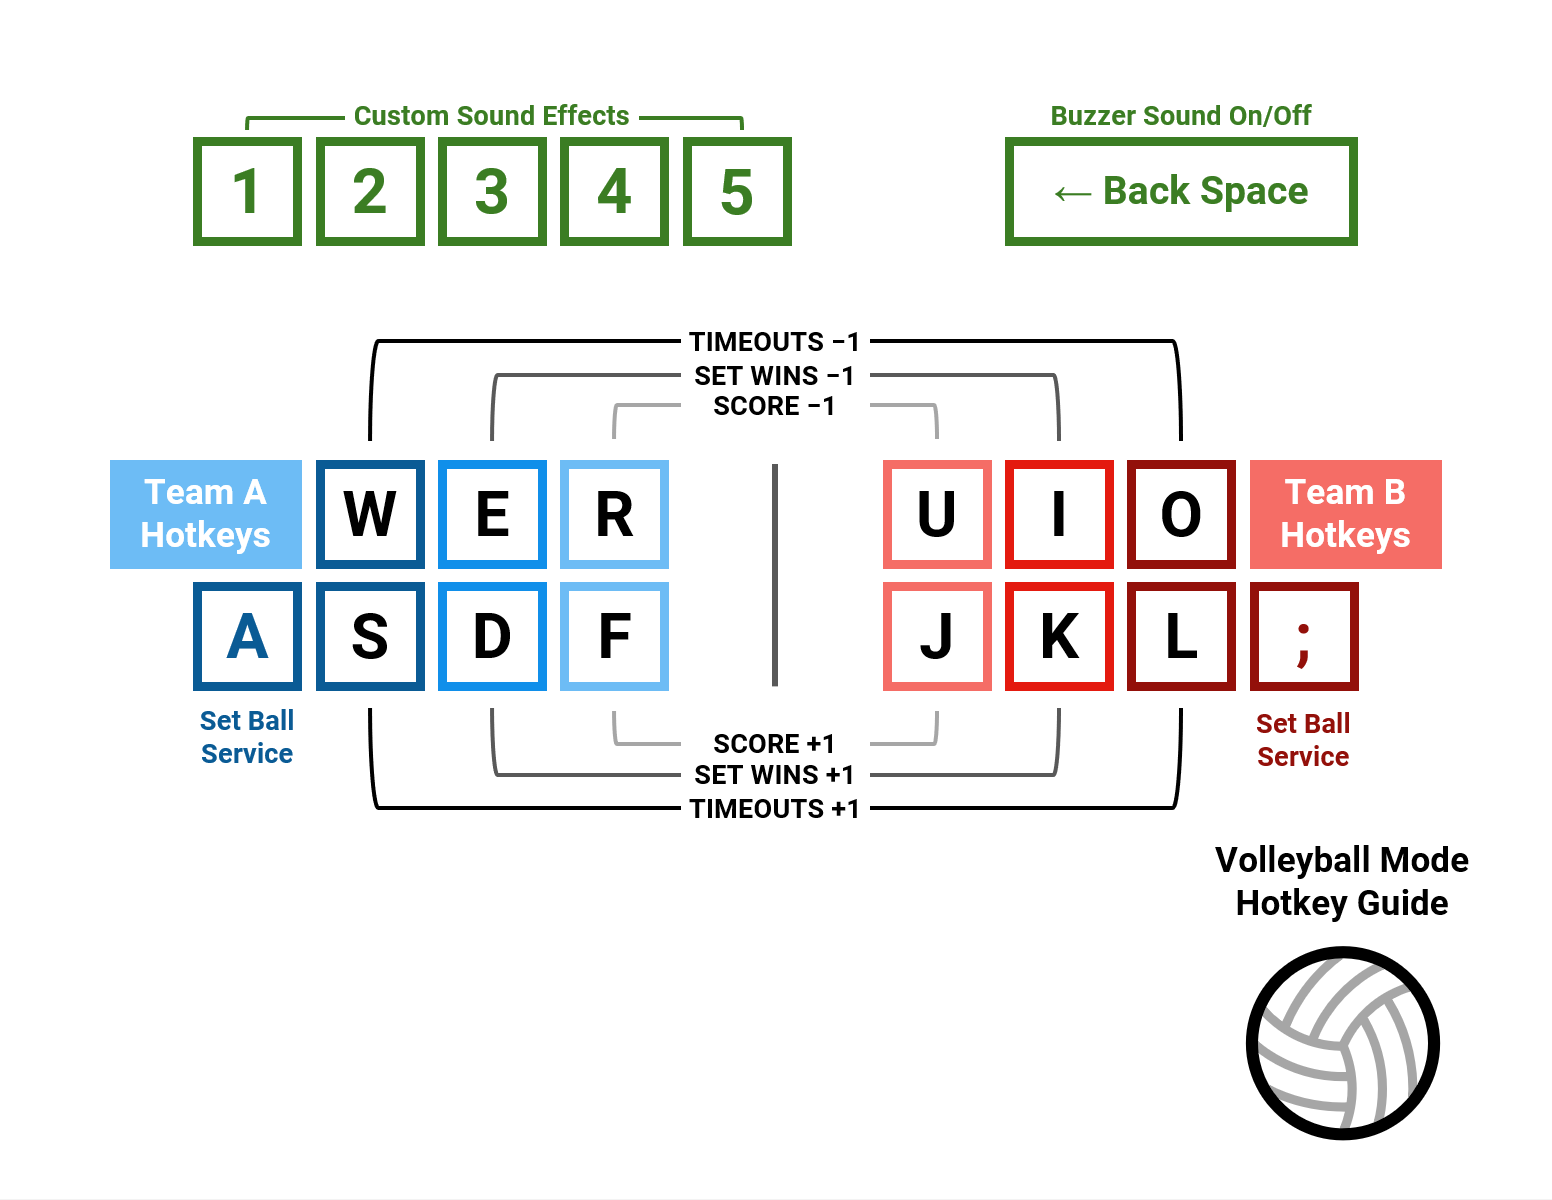
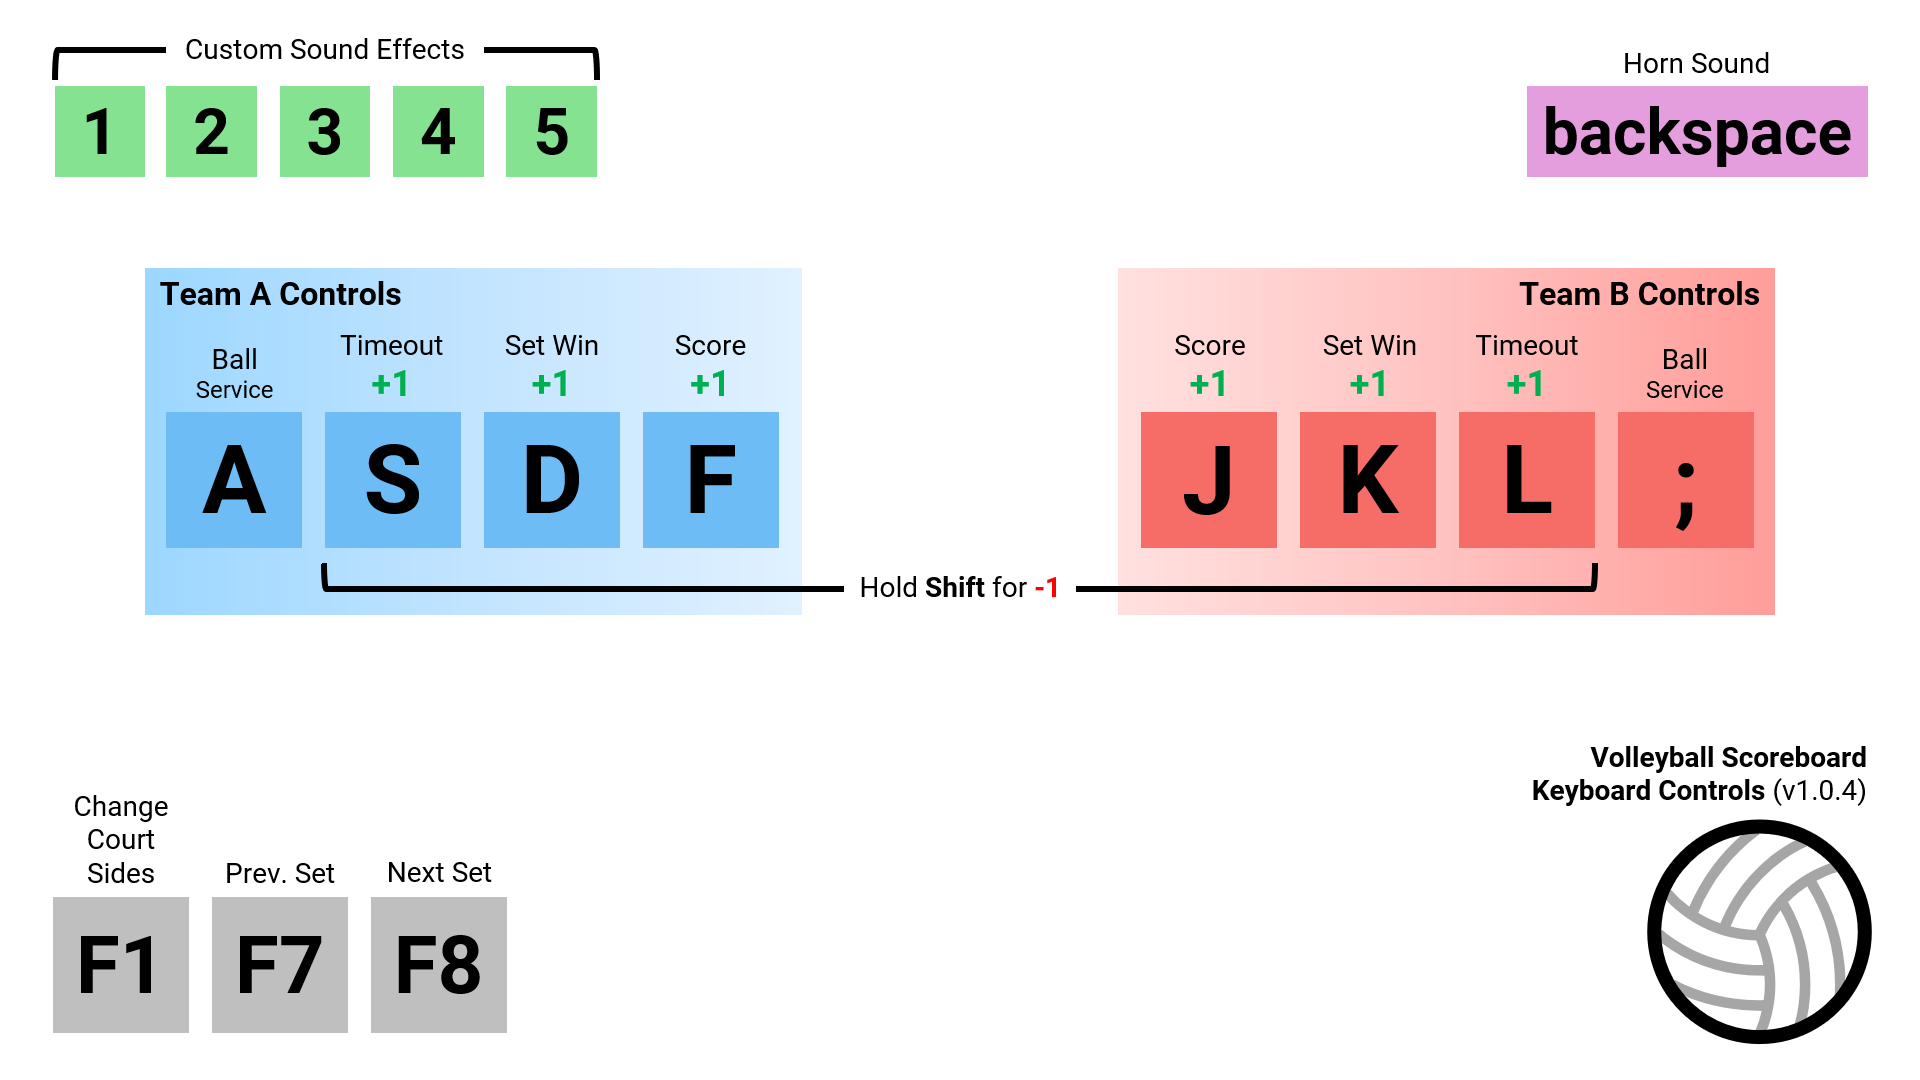
updated Mini Timer reset, and new hotkeys
Changes from 1.0.3:
- Major overhaul in Keyboard operation mode
    - Keybinds for score and other counters now use Shift in decreasing values instead of separate keybinds
    - Also fixed the issue regarding keybinds not working if Caps Lock is on
    - Added keybinds for adjustments of Period/Set and Timers (see new hotkey guide)
- Resetting the mini timer (Shot Clock) now also stops that mini timer

diff --git a/script.js b/script.js
@@ -219,6 +219,8 @@ function setMiniTimer(timerType) {
 			break;
 	}
 	miniTimer[1] = 0;
+	if(isMiniTimerRunning)
+		changeMiniTimerState();
 	document.getElementById("sbMiniText").innerHTML = isTimeout? "TIMEOUT":isBasketball? "SHOT CLOCK":"TO SERVE";
 	updateMiniTimerDisplay();
 	updateAllTimerButton();
@@ -566,6 +568,27 @@ function changeBallPossession(teamNum) {
 	}
 }
 
+function adjustTimer(adjustDsec) {
+	let rawDsec = timer[0]*600 + timer[1]*10 + timer[2];
+	rawDsec = rawDsec+adjustDsec;
+	if(rawDsec > 59999) rawDsec = 59999;
+	if(rawDsec <= 1) rawDsec = 1;
+	timer[0] = Math.floor(rawDsec/600);
+	timer[1] = Math.floor(rawDsec/10)%60;
+	timer[2] = rawDsec%10;
+	updateTimerDisplay();
+}
+
+function adjustMiniTimer(adjustDsec) {
+	let rawDsec = miniTimer[0]*10 + miniTimer[1];
+	rawDsec = rawDsec+adjustDsec;
+	if(rawDsec > 999) rawDsec = 999;
+	if(rawDsec <= 1) rawDsec = 1;
+	miniTimer[0] = Math.floor(rawDsec/10);
+	miniTimer[1] = rawDsec%10;
+	updateMiniTimerDisplay();
+}
+
 function activateTimerThread() {
 	let timerRun, miniTimerRun, timerDelta, lastTimerDelta = 0, miniTimerDelta, lastMiniTimerDelta = 0;
 	
@@ -640,51 +663,115 @@ function countdownMiniTimer() {
 
 function toggleHotkeyActivation() {
 	isHotkeyMode = document.getElementById("hotkeyActivation").checked;
-	checkbox.onmousedown = function(event) { event.preventDefault(); }
+	// checkbox.onmousedown = function(event) { event.preventDefault(); }
+	document.getElementById("hotkeyActivation").addEventListener("click", function(event){
+		event.preventDefault()
+	});
 }
 
 function setHotkeyFunctions() {
 	window.addEventListener('keydown', function(event) {
             if(isHotkeyMode) {
-			// TEAM A HOTKEYS
-                if(event.key == "a") document.getElementById("teamAposs").click();
-                if(event.key == "w") document.getElementById("lowerAminus1").click();
-                if(event.key == "s") document.getElementById("lowerAplus1").click();
-                if(event.key == "e") document.getElementById("upperAminus1").click();
-                if(event.key == "d") document.getElementById("upperAplus1").click();
-                if(event.key == "r") isBasketball? document.getElementById("scoreAfuncA").click():document.getElementById("scoreAfuncB").click();
-                if(event.key == "f") isBasketball? document.getElementById("scoreAfuncB").click():document.getElementById("scoreAfuncC").click();
-			
-                // TEAM B HOTKEYS
-                if(event.key == ";") document.getElementById("teamBposs").click();
-                if(event.key == "o") document.getElementById("lowerBminus1").click();
-                if(event.key == "l") document.getElementById("lowerBplus1").click();
-                if(event.key == "i") document.getElementById("upperBminus1").click();
-                if(event.key == "k") document.getElementById("upperBplus1").click();
-                if(event.key == "u") isBasketball? document.getElementById("scoreBfuncA").click():document. getElementById("scoreBfuncB").click();
-                if(event.key == "j") isBasketball? document.getElementById("scoreBfuncB").click():document.getElementById("scoreBfuncC").click();
-			
+				// SCORE AND COUNTERS
+				if(event.key.toLowerCase() == "s") {
+					if(event.shiftKey)
+						document.getElementById("lowerAminus1").click();
+					else
+						document.getElementById("lowerAplus1").click();
+				}
+
+				if(event.key.toLowerCase() == "d") {
+					if(event.shiftKey)
+						document.getElementById("upperAminus1").click();
+					else
+						document.getElementById("upperAplus1").click();
+				}
+
+				if(event.key.toLowerCase() == "f") {
+					if(event.shiftKey)
+						isBasketball? document.getElementById("scoreAfuncA").click():document.getElementById("scoreAfuncB").click();
+					else
+						isBasketball? document.getElementById("scoreAfuncB").click():document.getElementById("scoreAfuncC").click();
+				}
+
+				if(event.key.toLowerCase() == "l") {
+					if(event.shiftKey)
+						document.getElementById("lowerBminus1").click();
+					else
+						document.getElementById("lowerBplus1").click();
+				}
+
+				if(event.key.toLowerCase() == "k") {
+					if(event.shiftKey)
+						document.getElementById("upperBminus1").click();
+					else
+						document.getElementById("upperBplus1").click();
+				}
+
+				if(event.key.toLowerCase() == "j") {
+					if(event.shiftKey)
+						isBasketball? document.getElementById("scoreBfuncA").click():document.getElementById("scoreBfuncB").click();
+					else
+						isBasketball? document.getElementById("scoreBfuncB").click():document.getElementById("scoreBfuncC").click();
+				}
+
+				// POSSESSION
+				if(event.key.toLowerCase() == "a") document.getElementById("teamAposs").click();
+				if(event.key == ";") document.getElementById("teamBposs").click();
+
+				// PERIOD HOTKEYS
+				if(event.key == "F7") {
+					document.getElementById("periodNum").stepDown();
+					changePeriod();
+				}
+				if(event.key == "F8") {
+					document.getElementById("periodNum").stepUp();
+					changePeriod();
+				}
+
+				// CHANGE COURT
+				if(event.key == "F1") document.getElementById("changeCourt").click();
+
                 // TIMER HOTKEYS
                 if(event.key == " ") {
 					document.getElementById("toggleTimerState").click();
                     event.preventDefault();
                 }
-                if(event.key == "b") document.getElementById("toggleMiniTimerState").click();
-                if(event.key == "v") document.getElementById("setMiniTimerB").click();
-                if(event.key == "n") document.getElementById("setMiniTimerA").click();
+                if(event.key.toLowerCase() == "b") document.getElementById("toggleMiniTimerState").click();
+                if(event.key.toLowerCase() == "v") document.getElementById("setMiniTimerB").click();
+                if(event.key.toLowerCase() == "n") document.getElementById("setMiniTimerA").click();
+				if(event.code == "Digit8") {
+					if(event.shiftKey)
+						adjustTimer(-600);
+					else adjustTimer(600);
+				}
+				if(event.code == "Digit9") {
+					if(event.shiftKey)
+						adjustTimer(-10);
+					else adjustTimer(10);
+				}
+				if(event.code == "Digit0") {
+					if(event.shiftKey)
+						adjustTimer(-1);
+					else adjustTimer(1);
+				}
+				if(event.key == "_") adjustMiniTimer(-10);
+				if(event.key == "-") adjustMiniTimer(10);
+				if(event.key == "+") adjustMiniTimer(-1);
+				if(event.key == "=") adjustMiniTimer(1);
 			
                 // SFX HOTKEYS
                 if(event.key == "Backspace") document.getElementById("hornButton").onmousedown();
-                if(event.key == "1") document.getElementById("sfxButton1").click();
-                if(event.key == "2") document.getElementById("sfxButton2").click();
-                if(event.key == "3") document.getElementById("sfxButton3").click();
-                if(event.key == "4") document.getElementById("sfxButton4").click();
-                if(event.key == "5") document.getElementById("sfxButton5").click();
+                if(event.code == "Digit1") document.getElementById("sfxButton1").click();
+                if(event.code == "Digit2") document.getElementById("sfxButton2").click();
+                if(event.code == "Digit3") document.getElementById("sfxButton3").click();
+                if(event.code == "Digit4") document.getElementById("sfxButton4").click();
+                if(event.code == "Digit5") document.getElementById("sfxButton5").click();
             }
 		}
 	);
     window.addEventListener('keyup', function(event) {
-            if(event.key == "Backspace" && isHotkeyMode)
+            if(event.key === "Backspace" && isHotkeyMode)
                 document.getElementById("hornButton").onmouseup();
         }
     );

diff --git a/index.html b/index.html
@@ -270,7 +270,7 @@
 						</tr>
 						<tr>
 							<td colspan="2" id="scoreboardVersion">
-								LSN Scoreboard - version 1.0.3
+								LSN Scoreboard - version 1.0.4
 							</td>
 						</tr>
 					</table>